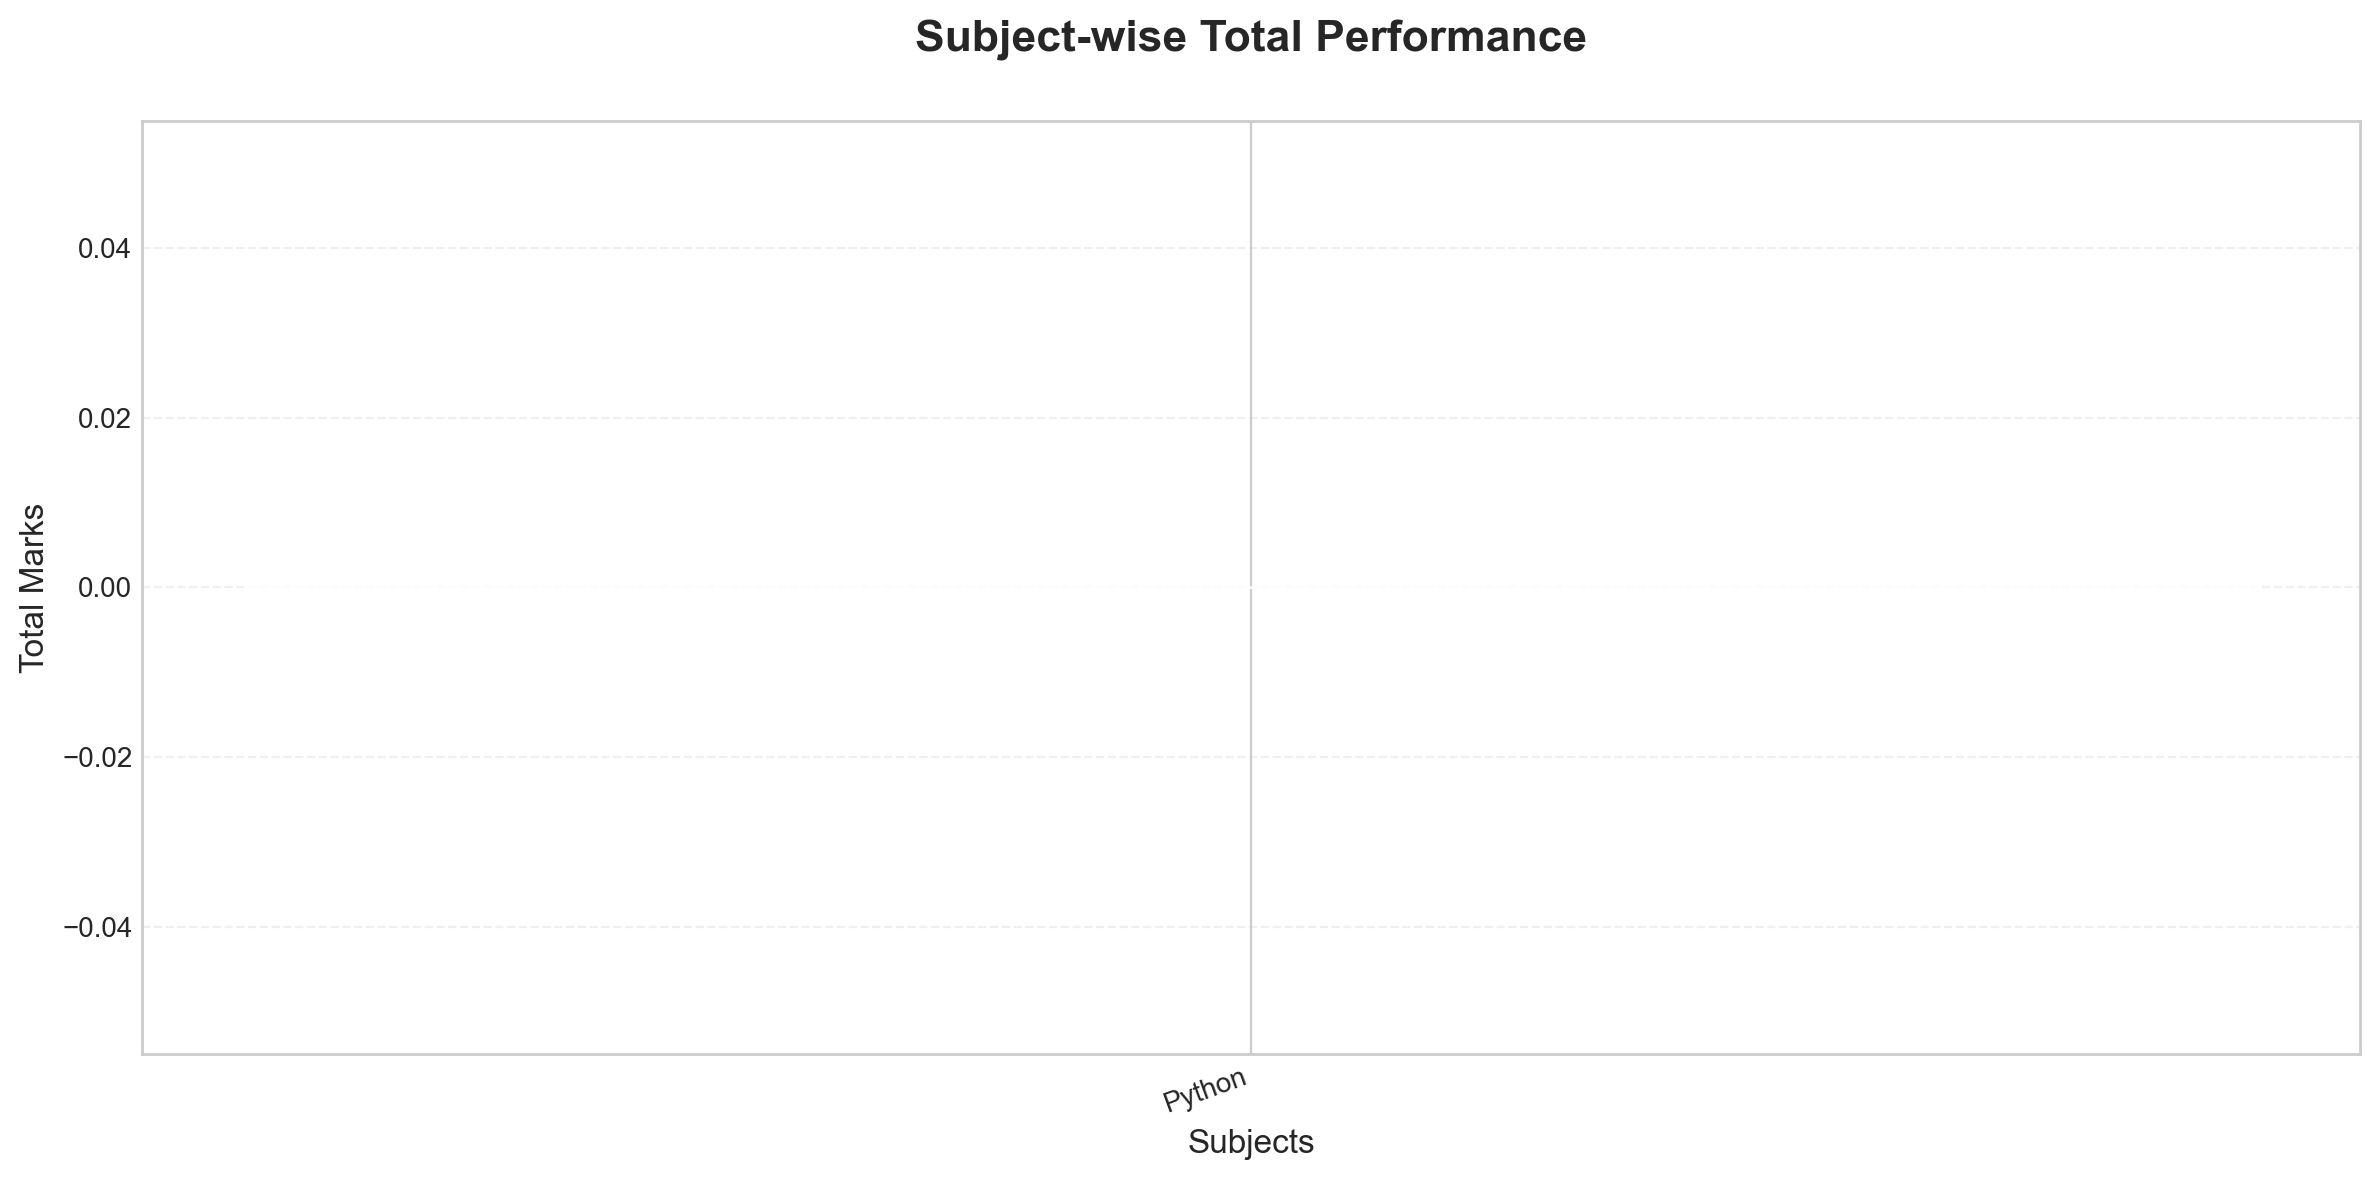
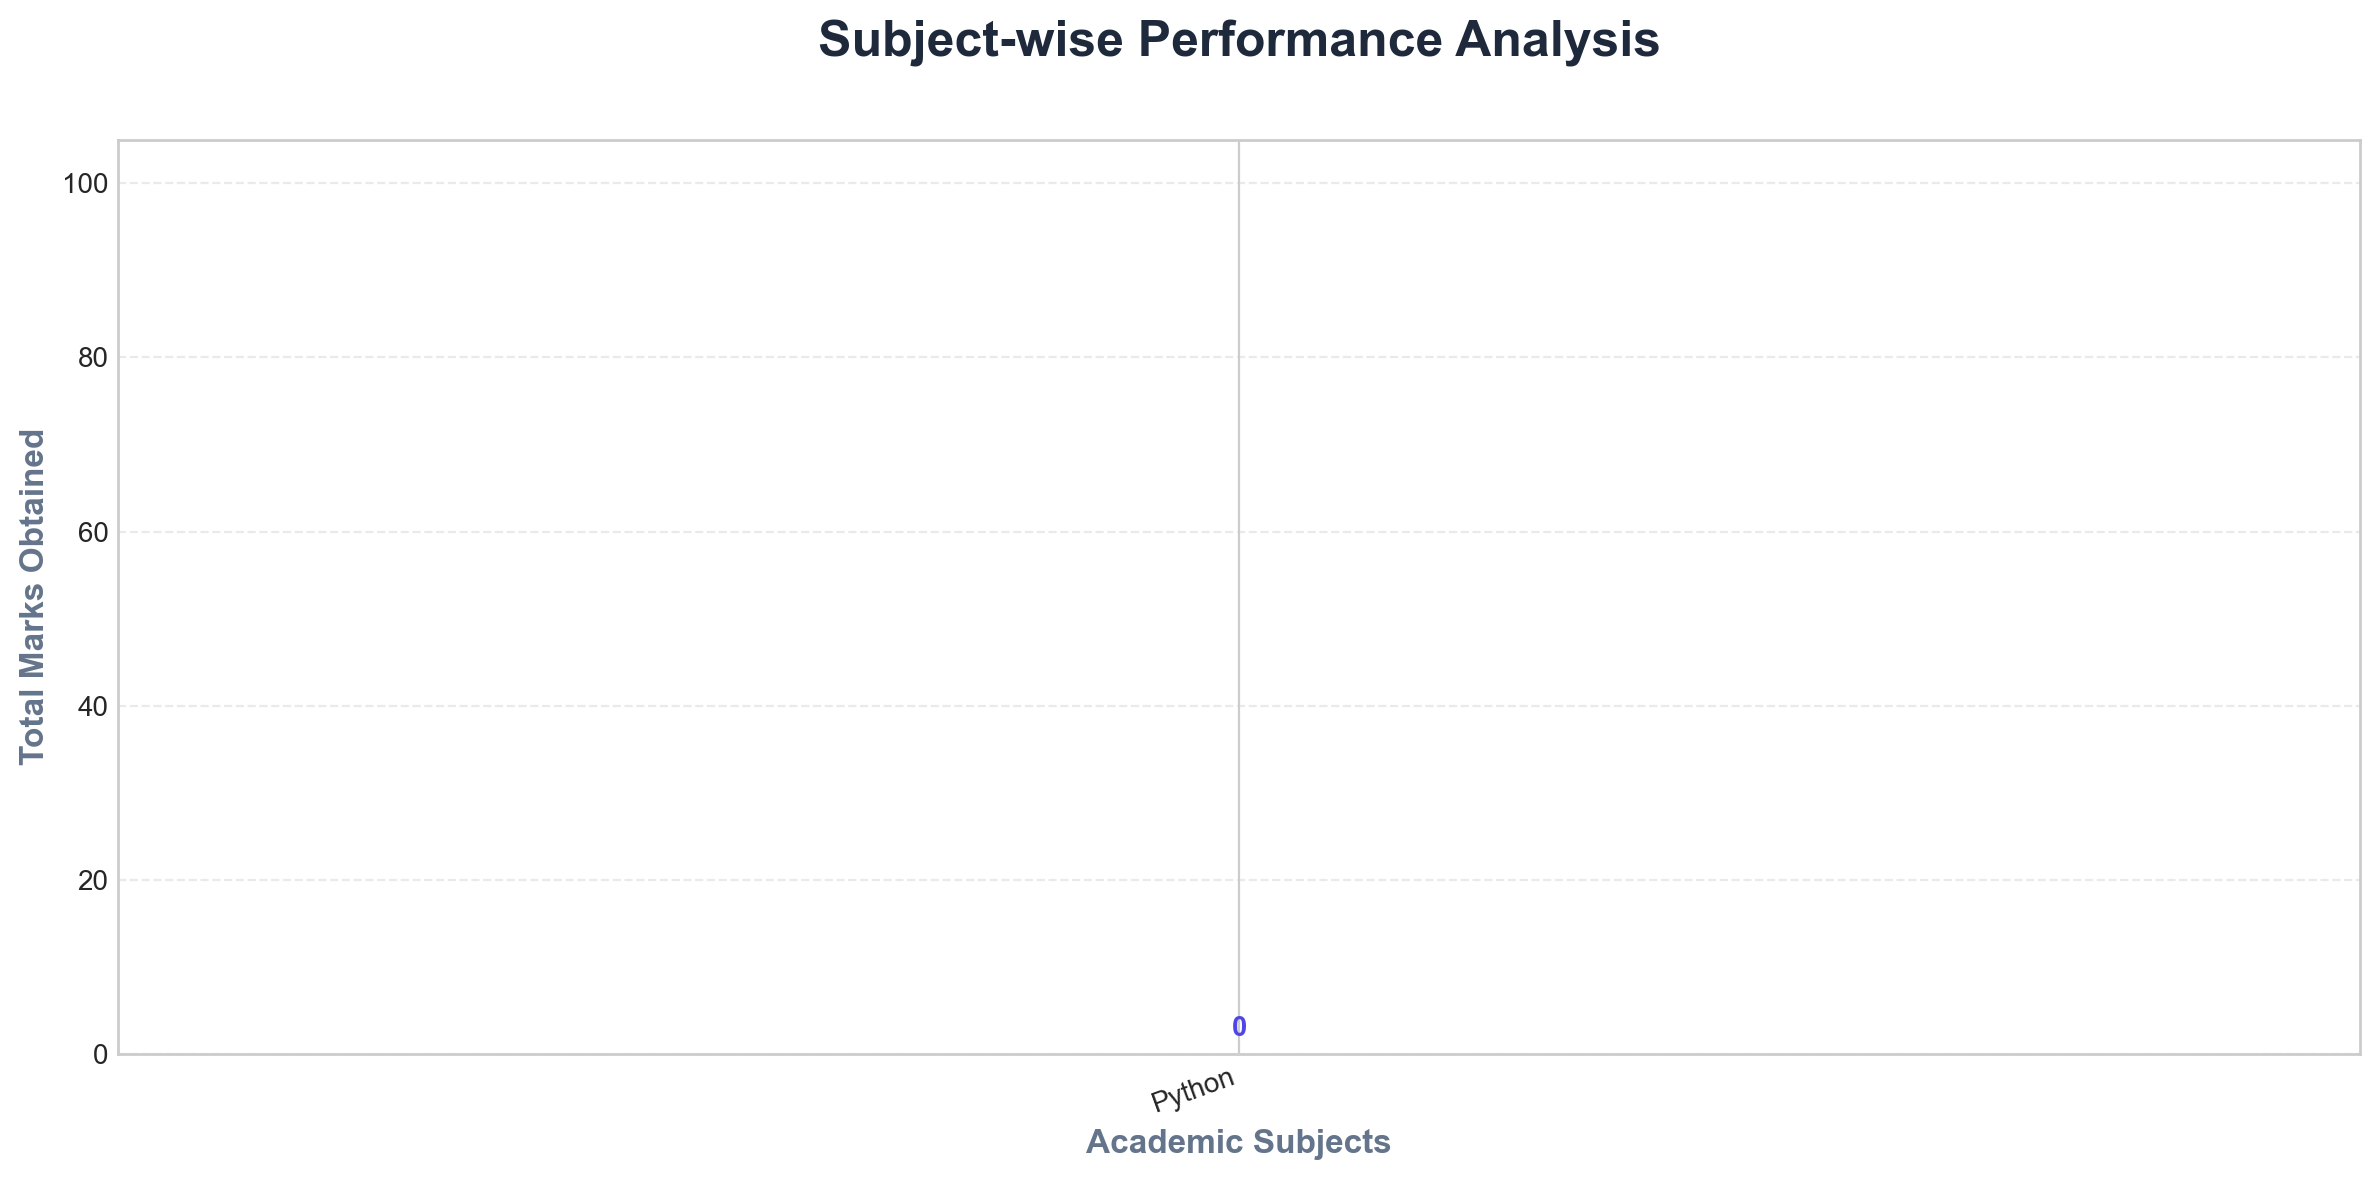
Initial commit

diff --git a/student-performance/templates/admin/student_detail.html b/student-performance/templates/admin/student_detail.html
@@ -34,10 +34,36 @@
     </div>
 </div>
 
+<!-- 📈 ANALYTICAL CHARTS SECTION -->
+<div class="row g-4 mb-5">
+    <div class="col-lg-8">
+        <div class="card border-0 shadow-sm rounded-4 p-4 h-100 bg-white shadow-hover">
+            <h6 class="fw-bold mb-4 text-dark d-flex align-items-center">
+                <span class="bg-primary-soft text-primary p-2 rounded-3 me-3"><i class="fas fa-chart-bar"></i></span>
+                Academic Performance Breakdown
+            </h6>
+            <div class="chart-container overflow-hidden rounded-3">
+                <img src="{{ url_for('static', filename='charts/student_' ~ student.enrollment_no ~ '_bar.png') }}" class="img-fluid w-100" alt="Marks Chart">
+            </div>
+        </div>
+    </div>
+    <div class="col-lg-4">
+        <div class="card border-0 shadow-sm rounded-4 p-4 h-100 bg-white shadow-hover">
+            <h6 class="fw-bold mb-4 text-dark d-flex align-items-center">
+                <span class="bg-indigo-soft text-indigo p-2 rounded-3 me-3"><i class="fas fa-chart-pie"></i></span>
+                Attendance Distribution
+            </h6>
+            <div class="chart-container overflow-hidden rounded-3 d-flex align-items-center justify-content-center" style="min-height: 250px;">
+                <img src="{{ url_for('static', filename='charts/student_' ~ student.enrollment_no ~ '_pie.png') }}" class="img-fluid" alt="Attendance Chart">
+            </div>
+        </div>
+    </div>
+</div>
+
 <!-- 📊 SUMMARY CARDS -->
 <div class="row g-4 mb-5">
     <div class="col-md-3">
-        <div class="card border-0 shadow-sm rounded-4 p-4 text-center h-100 bg-white border-bottom border-primary border-4">
+        <div class="card border-0 shadow-sm rounded-4 p-4 text-center h-100 bg-white border-bottom border-primary border-4 shadow-hover">
             <p class="text-muted small fw-bold text-uppercase mb-2">Academic Avg</p>
             <h2 class="fw-bold text-dark mb-0">{{ summary.avg_marks }}%</h2>
             <div class="progress mt-3 rounded-pill" style="height: 6px;">
@@ -46,7 +72,7 @@
         </div>
     </div>
     <div class="col-md-3">
-        <div class="card border-0 shadow-sm rounded-4 p-4 text-center h-100 bg-white border-bottom border-info border-4">
+        <div class="card border-0 shadow-sm rounded-4 p-4 text-center h-100 bg-white border-bottom border-info border-4 shadow-hover">
             <p class="text-muted small fw-bold text-uppercase mb-2">Attendance %</p>
             <h2 class="fw-bold {% if attendance.percent < 75 %}text-danger{% else %}text-dark{% endif %} mb-0">{{ attendance.percent }}%</h2>
             <p class="mb-0 extra-small mt-2 {% if attendance.percent < 75 %}text-danger fw-bold{% else %}text-muted{% endif %}">
@@ -55,14 +81,14 @@
         </div>
     </div>
     <div class="col-md-3">
-        <div class="card border-0 shadow-sm rounded-4 p-4 text-center h-100 bg-white border-bottom border-success border-4">
+        <div class="card border-0 shadow-sm rounded-4 p-4 text-center h-100 bg-white border-bottom border-success border-4 shadow-hover">
             <p class="text-muted small fw-bold text-uppercase mb-2">Total Papers</p>
             <h2 class="fw-bold text-dark mb-0">{{ marks_list|length }}</h2>
             <p class="mb-0 extra-small mt-2 text-muted">Across {{ student.department }} Sem {{ student.semester }}</p>
         </div>
     </div>
     <div class="col-md-3">
-        <div class="card border-0 shadow-sm rounded-4 p-4 text-center h-100 bg-white border-bottom border-warning border-4">
+        <div class="card border-0 shadow-sm rounded-4 p-4 text-center h-100 bg-white border-bottom border-warning border-4 shadow-hover">
             <p class="text-muted small fw-bold text-uppercase mb-2">Final Outcome</p>
             <div class="mt-1">
                 {% if summary.overall_result == 'PASS' %}
@@ -78,20 +104,23 @@
 
 <div class="row g-4 mb-5">
     <!-- 📚 MARKS TABLE -->
-    <div class="col-lg-8">
-        <div class="card border-0 shadow-sm rounded-4 overflow-hidden h-100 bg-white">
+    <div class="col-lg-12">
+        <div class="card border-0 shadow-sm rounded-4 overflow-hidden h-100 bg-white shadow-hover">
             <div class="card-header bg-white py-3 border-bottom d-flex justify-content-between align-items-center">
-                <h6 class="mb-0 fw-bold text-dark"><i class="fas fa-list-ol me-2 text-primary"></i>Academic Performance Breakdown</h6>
-                <span class="badge bg-light border text-muted">Total Marks: {{ summary.total_marks }}</span>
+                <h6 class="mb-0 fw-bold text-dark"><i class="fas fa-tasks me-2 text-primary"></i>Detailed Subject Assessment Ledger</h6>
+                <div class="d-flex gap-2">
+                    <span class="badge bg-light border text-muted">Total Marks: {{ summary.total_marks }}</span>
+                    <span class="badge bg-light border text-muted">Credits: Verified</span>
+                </div>
             </div>
             <div class="table-responsive">
                 <table class="table table-hover align-middle mb-0">
                     <thead class="bg-light">
                         <tr class="text-muted extra-small text-uppercase fw-bold">
-                            <th class="ps-4 py-3">Subject Name</th>
-                            <th class="py-3 text-center">Assessment Breakdown</th>
-                            <th class="py-3 text-center">Total</th>
-                            <th class="py-3 text-center pe-4">Status</th>
+                            <th class="ps-4 py-3">Academic Subject</th>
+                            <th class="py-3 text-center">Assessed Breakdown (I/E/P)</th>
+                            <th class="py-3 text-center">Aggregate Score</th>
+                            <th class="py-3 text-center pe-4">Verdict</th>
                         </tr>
                     </thead>
                     <tbody>
@@ -108,36 +137,23 @@
                                 </div>
                             </td>
                             <td class="text-center">
-                                <span class="fw-bold {% if item.total >= 80 %}text-success{% elif item.status == 'FAIL' %}text-danger{% else %}text-primary{% endif %}">{{ item.total }}</span>
+                                <span class="fw-bold {% if item.total >= 80 %}text-success{% elif item.status == 'FAIL' %}text-danger{% else %}text-primary{% endif %}">{{ item.total }} <span class="text-muted small fw-normal">/ 100</span></span>
                             </td>
                             <td class="text-center pe-4">
                                 {% if item.status == 'PASS' %}
-                                <i class="fas fa-check-circle text-success" title="Passed"></i>
+                                <span class="badge bg-success-soft text-success rounded-pill px-3 py-1 fw-bold extra-small">CLEARED</span>
                                 {% else %}
-                                <i class="fas fa-times-circle text-danger" title="Failed"></i>
+                                <span class="badge bg-danger-soft text-danger rounded-pill px-3 py-1 fw-bold extra-small">FAILED</span>
                                 {% endif %}
                             </td>
                         </tr>
                         {% else %}
                         <tr>
-                            <td colspan="4" class="text-center py-5 text-muted small">No academic records found for this student.</td>
+                            <td colspan="4" class="text-center py-5 text-muted small">No academic records located for this enrollment.</td>
                         </tr>
                         {% endfor %}
                     </tbody>
                 </table>
-            </div>
-        </div>
-    </div>
-    
-    <!-- 📈 PERFORMANCE CHARTS -->
-    <div class="col-lg-4">
-        <div class="card border-0 shadow-sm rounded-4 p-4 text-center h-100 bg-white">
-            <h6 class="fw-bold mb-4 text-dark"><i class="fas fa-chart-pie me-2 text-indigo"></i>Pass/Fail Ratio</h6>
-            <img src="{{ url_for('static', filename='charts/student_' ~ student.enrollment_no ~ '_pie.png') }}" class="img-fluid rounded-3 mb-4" alt="Success Pie Chart">
-            <hr class="opacity-25">
-            <div class="mt-4">
-                <h6 class="fw-bold text-dark mb-3"><i class="fas fa-chart-bar me-2 text-primary"></i>Score Graph</h6>
-                <img src="{{ url_for('static', filename='charts/student_' ~ student.enrollment_no ~ '_bar.png') }}" class="img-fluid rounded-3" alt="Performance Bar Chart">
             </div>
         </div>
     </div>
@@ -198,6 +214,13 @@
 .bg-danger-fade { background-color: rgba(239, 68, 68, 0.03); }
 .extra-small { font-size: 0.75rem; }
 .text-indigo { color: #4f46e9; }
+.shadow-hover {
+    transition: transform 0.3s ease, box-shadow 0.3s ease;
+}
+.shadow-hover:hover {
+    transform: translateY(-5px);
+    box-shadow: 0 10px 25px -5px rgba(0, 0, 0, 0.1), 0 8px 10px -6px rgba(0, 0, 0, 0.1) !important;
+}
 </style>
 
 <script>

diff --git a/student-performance/analysis.py b/student-performance/analysis.py
@@ -630,48 +630,70 @@ def calculate_student_summary(enrollment_no):
     }
 
 def generate_student_charts_new(enrollment_no):
-    """Generates charts specifically for the student dashboard"""
+    """Generates analytical charts for the student detail report"""
     subjects_data = get_student_marks(enrollment_no)
-    if not subjects_data:
-        return
     
-    # Chart 1: Subject-wise Total Marks (Bar)
-    plt.figure(figsize=(12, 6), dpi=200)
-    subjects = [item['subject'] for item in subjects_data]
-    totals = [item['total'] for item in subjects_data]
-    
-    colors = ['#3B82F6', '#6366F1', '#8B5CF6', '#EC4899', '#10B981', '#F59E0B'] # Vibrant palette
-    plt.bar(subjects, totals, color=colors[:len(subjects)], alpha=0.9, edgecolor='white', linewidth=1)
-    
-    plt.title(f'Subject-wise Total Performance', fontsize=16, fontweight='bold', pad=25)
-    plt.xlabel('Subjects', fontsize=12)
-    plt.ylabel('Total Marks', fontsize=12)
-    plt.xticks(rotation=20, ha='right')
-    plt.grid(axis='y', linestyle='--', alpha=0.3)
-    plt.tight_layout()
-    
-    bar_path = os.path.join(CHARTS_DIR, f'student_{enrollment_no}_bar.png')
-    plt.savefig(bar_path, bbox_inches="tight")
-    plt.close()
-
-    # Chart 2: Pass vs Fail Subjects (Pie)
-    pass_count = sum(1 for item in subjects_data if item['status'] == "PASS")
-    fail_count = sum(1 for item in subjects_data if item['status'] == "FAIL")
-    
-    plt.figure(figsize=(12, 6), dpi=200)
-    if pass_count + fail_count > 0:
-        plt.pie([pass_count, fail_count], labels=['Pass', 'Fail'], 
-                colors=['#10B981', '#EF4444'], autopct='%1.1f%%', 
-                startangle=140, wedgeprops={'edgecolor': 'white', 'linewidth': 2})
-    else:
-        plt.text(0.5, 0.5, 'No Data', ha='center', va='center')
+    # 📊 Chart 1: Subject-wise Total Marks (Professional Bar Chart)
+    if subjects_data:
+        plt.figure(figsize=(12, 6), dpi=200)
+        subjects = [item['subject'] for item in subjects_data]
+        totals = [item['total'] for item in subjects_data]
         
-    plt.title('Pass vs Fail Subjects', fontsize=16, fontweight='bold', pad=25)
-    plt.tight_layout()
-    
-    pie_path = os.path.join(CHARTS_DIR, f'student_{enrollment_no}_pie.png')
-    plt.savefig(pie_path, bbox_inches="tight")
-    plt.close()
+        plt.bar(subjects, totals, color='#6366f1', alpha=0.9, edgecolor='white', linewidth=1)
+        
+        plt.title('Subject-wise Performance Analysis', fontsize=18, fontweight='bold', pad=30, color='#1e293b')
+        plt.xlabel('Academic Subjects', fontsize=12, fontweight='bold', color='#64748b')
+        plt.ylabel('Total Marks Obtained', fontsize=12, fontweight='bold', color='#64748b')
+        plt.xticks(rotation=20, ha='right', fontsize=10)
+        plt.yticks(fontsize=10)
+        plt.grid(axis='y', linestyle='--', alpha=0.4)
+        plt.ylim(0, 105)
+        
+        # Add value labels on top of bars
+        for i, v in enumerate(totals):
+            plt.text(i, v + 2, str(v), ha='center', fontsize=10, fontweight='bold', color='#4f46e5')
+            
+        plt.tight_layout()
+        plt.savefig(os.path.join(CHARTS_DIR, f'student_{enrollment_no}_bar.png'), bbox_inches="tight")
+        plt.close()
+
+    # 🍕 Chart 2: Attendance Distribution (High-Fidelity Pie Chart)
+    conn = get_db_connection()
+    if conn:
+        cursor = conn.cursor(dictionary=True)
+        cursor.execute("""
+            SELECT 
+                SUM(CASE WHEN status='Present' THEN 1 ELSE 0 END) as present,
+                SUM(CASE WHEN status='Absent' THEN 1 ELSE 0 END) as absent
+            FROM attendance
+            WHERE enrollment_no = %s
+        """, (enrollment_no,))
+        att_data = cursor.fetchone()
+        present = att_data['present'] or 0
+        absent = att_data['absent'] or 0
+        
+        plt.figure(figsize=(12, 7), dpi=200)
+        if present + absent > 0:
+            wedges, texts, autotexts = plt.pie(
+                [present, absent], 
+                labels=['Present', 'Absent'], 
+                autopct='%1.1f%%',
+                colors=['#10b981', '#ef4444'],
+                startangle=140, 
+                explode=(0.05, 0),
+                wedgeprops={'edgecolor': 'white', 'linewidth': 3, 'antialiased': True}
+            )
+            plt.setp(autotexts, size=12, weight="bold", color="white")
+            plt.setp(texts, size=12, weight="bold")
+            plt.title('Attendance Distribution Overview', fontsize=18, fontweight='bold', pad=30, color='#1e293b')
+        else:
+            plt.text(0.5, 0.5, 'No Attendance Data Available', ha='center', va='center', fontsize=14, color='#94a3b8')
+        
+        plt.tight_layout()
+        plt.savefig(os.path.join(CHARTS_DIR, f'student_{enrollment_no}_pie.png'), bbox_inches="tight")
+        plt.close()
+        cursor.close()
+        conn.close()
 
 def export_student_report_excel(enrollment_no):
     """Exports student marks data to Excel"""
